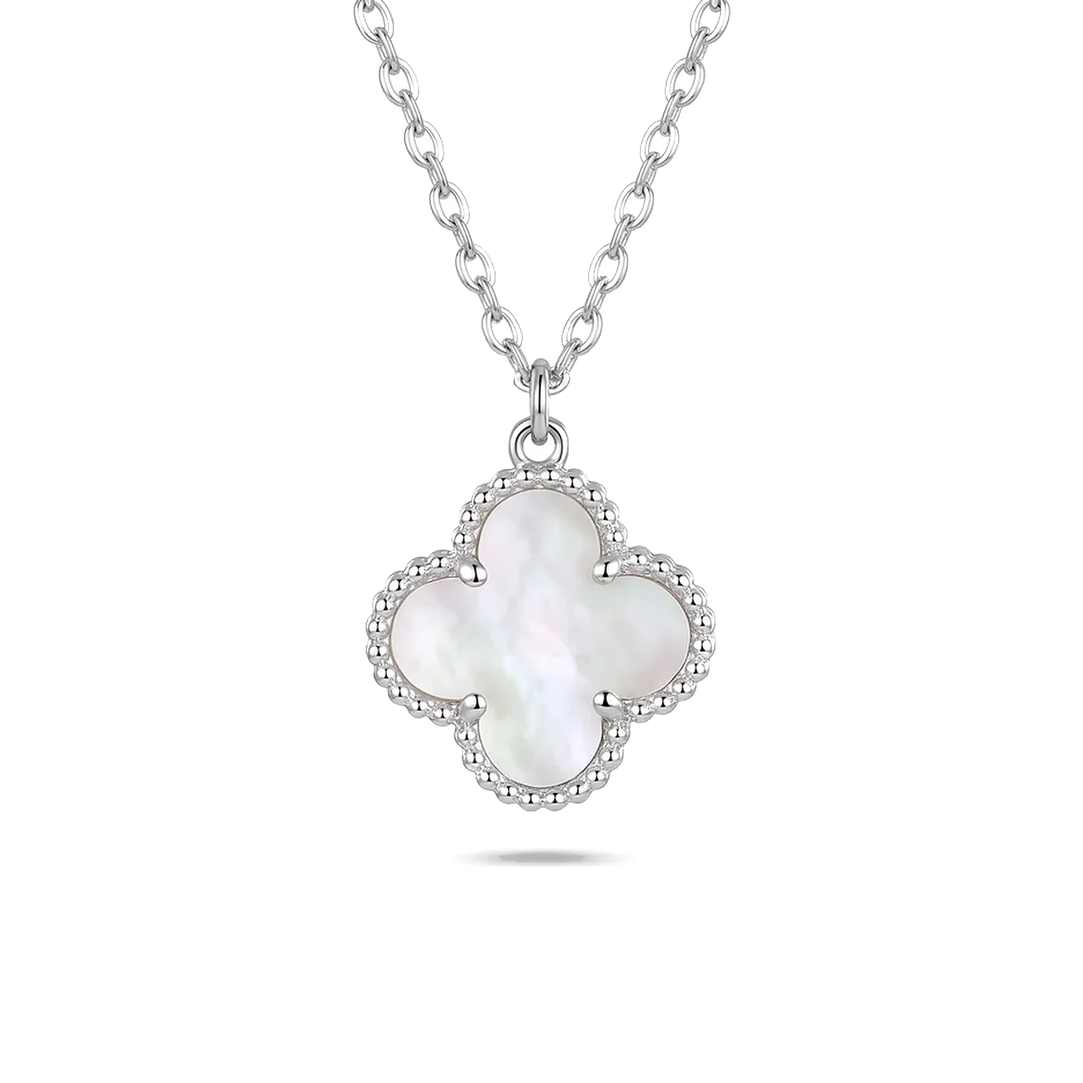
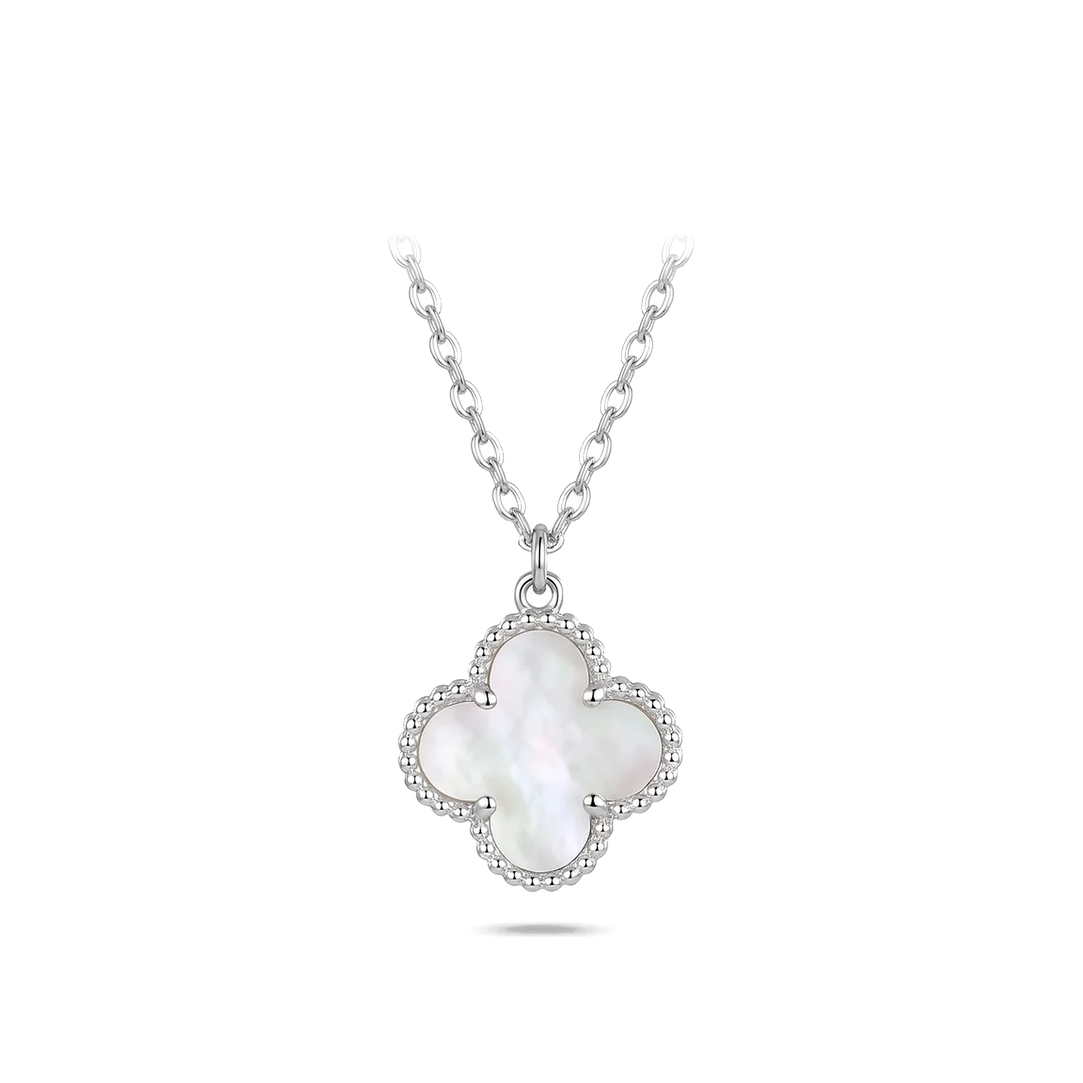
Rename to "Дамска колекция" / "Colecția pentru femei" (old anchors redirected), collection ordered by model, home row of 4 + "Виж цялата колекция", necklace photos at 65% with the chain V

Changed region(s): [[0.31, 0.0, 0.682, 0.868], [0.62, 0.217, 0.651, 0.248]]

diff --git a/components/ro/listing/RoJewelleryPageClient.tsx b/components/ro/listing/RoJewelleryPageClient.tsx
@@ -3,7 +3,7 @@ import { useEffect } from "react";
 import { useSearchParams } from "next/navigation";
 import Link from "next/link";
 import type { Product } from "@/lib/types";
-import { isCollectionSlug } from "@/lib/new-collection";
+import { collectionRank, isCollectionSlug } from "@/lib/new-collection";
 import { RoProductCard } from "@/components/ro/RoProductCard";
 
 // Romanian port of app/jewellery/JewelleryPageClient.tsx: same hero, same category tabs (?category=bracelets|necklaces,
@@ -23,18 +23,27 @@ export function RoJewelleryPageClient({ bracelets, necklaces }: Props) {
   const showBracelets = !category || category === "bracelets";
   const showNecklaces = !category || category === "necklaces";
 
-  // A link with an #anchor (the menu's #nova-kolekcia / #noua-colectie, the home banners' #bracelets / #necklaces): this grid is
+  // A link with an #anchor (the menu's #damska-kolekcia / #colectia-pentru-femei, the home banners' #bracelets / #necklaces): this grid is
   // drawn in the browser, after the browser's own jump to the anchor, so jump once it exists (the CSS scroll-margin clears the header).
+  // The section was renamed (#noua-colectie -> #colectia-pentru-femei): old links (ads, bookmarks, shared links) are rewritten to the new anchor.
   useEffect(() => {
-    const id = decodeURIComponent(window.location.hash.slice(1));
-    if (!id) return;
-    const t = window.setTimeout(() => document.getElementById(id)?.scrollIntoView({ block: "start" }), 50);
-    return () => window.clearTimeout(t);
+    let t = 0;
+    const jump = () => {
+      let id = decodeURIComponent(window.location.hash.slice(1));
+      if (!id) return;
+      if (id === "noua-colectie") { id = "colectia-pentru-femei"; window.history.replaceState(window.history.state, "", `${window.location.pathname}${window.location.search}#${id}`); }
+      window.clearTimeout(t);
+      t = window.setTimeout(() => document.getElementById(id)?.scrollIntoView({ block: "start" }), 50);
+    };
+    jump();
+    window.addEventListener("hashchange", jump);
+    return () => { window.clearTimeout(t); window.removeEventListener("hashchange", jump); };
   }, [category]);
 
   // The 2026 collection (lib/new-collection.ts) gets its own section first. The existing range follows under the info block
   // whose "750 IT" stamp line belongs to it only - the new pieces carry no stamp (owner, 07.11.2026).
-  const newPieces = [...(showBracelets ? bracelets : []), ...(showNecklaces ? necklaces : [])].filter((p) => isCollectionSlug(p.slug));
+  const newPieces = [...(showBracelets ? bracelets : []), ...(showNecklaces ? necklaces : [])].filter((p) => isCollectionSlug(p.slug))
+    .sort((a, b) => collectionRank(a.slug) - collectionRank(b.slug)); // by model, necklaces before bracelets
   const oldBracelets = bracelets.filter((p) => !isCollectionSlug(p.slug));
   const oldNecklaces = necklaces.filter((p) => !isCollectionSlug(p.slug));
   const showOldRange = (showBracelets && oldBracelets.length > 0) || (showNecklaces && oldNecklaces.length > 0);
@@ -119,11 +128,11 @@ export function RoJewelleryPageClient({ bracelets, necklaces }: Props) {
 
         {/* The 2026 collection */}
         {newPieces.length > 0 && (
-          <div id="noua-colectie" data-testid="new-collection" className="mb-20 scroll-mt-[132px]">
+          <div id="colectia-pentru-femei" data-testid="new-collection" className="mb-20 scroll-mt-[132px]">
             <div className="flex items-center justify-between mb-10">
               <div>
                 <p className="section-tag mb-2">Lorenzo Ricci</p>
-                <h2 className="font-serif text-display-sm text-charcoal">Noua colecție</h2>
+                <h2 className="font-serif text-display-sm text-charcoal">Colecția pentru femei</h2>
               </div>
               <div className="h-px flex-1 bg-border ml-8" />
             </div>

diff --git a/app/jewellery/JewelleryPageClient.tsx b/app/jewellery/JewelleryPageClient.tsx
@@ -3,7 +3,7 @@ import { useEffect } from "react";
 import { useSearchParams } from "next/navigation";
 import Link from "next/link";
 import type { Product } from "@/lib/types";
-import { isCollectionSlug } from "@/lib/new-collection";
+import { collectionRank, isCollectionSlug } from "@/lib/new-collection";
 import { ProductCard } from "@/components/product/ProductCard";
 
 interface Props {
@@ -18,18 +18,27 @@ export function JewelleryPageClient({ bracelets, necklaces }: Props) {
   const showBracelets = !category || category === "bracelets";
   const showNecklaces = !category || category === "necklaces";
 
-  // A link with an #anchor (the menu's #nova-kolekcia / #noua-colectie, the home banners' #bracelets / #necklaces): this grid is
+  // A link with an #anchor (the menu's #damska-kolekcia / #colectia-pentru-femei, the home banners' #bracelets / #necklaces): this grid is
   // drawn in the browser, after the browser's own jump to the anchor, so jump once it exists (the CSS scroll-margin clears the header).
+  // The section was renamed (#nova-kolekcia -> #damska-kolekcia): old links (ads, bookmarks, shared links) are rewritten to the new anchor.
   useEffect(() => {
-    const id = decodeURIComponent(window.location.hash.slice(1));
-    if (!id) return;
-    const t = window.setTimeout(() => document.getElementById(id)?.scrollIntoView({ block: "start" }), 50);
-    return () => window.clearTimeout(t);
+    let t = 0;
+    const jump = () => {
+      let id = decodeURIComponent(window.location.hash.slice(1));
+      if (!id) return;
+      if (id === "nova-kolekcia") { id = "damska-kolekcia"; window.history.replaceState(window.history.state, "", `${window.location.pathname}${window.location.search}#${id}`); }
+      window.clearTimeout(t);
+      t = window.setTimeout(() => document.getElementById(id)?.scrollIntoView({ block: "start" }), 50);
+    };
+    jump();
+    window.addEventListener("hashchange", jump);
+    return () => { window.clearTimeout(t); window.removeEventListener("hashchange", jump); };
   }, [category]);
 
   // The 2026 collection (lib/new-collection.ts) gets its own section first. The existing range follows under the info block
   // whose "750 IT" stamp line belongs to it only - the new pieces carry no stamp (owner, 07.11.2026).
-  const newPieces = [...(showBracelets ? bracelets : []), ...(showNecklaces ? necklaces : [])].filter((p) => isCollectionSlug(p.slug));
+  const newPieces = [...(showBracelets ? bracelets : []), ...(showNecklaces ? necklaces : [])].filter((p) => isCollectionSlug(p.slug))
+    .sort((a, b) => collectionRank(a.slug) - collectionRank(b.slug)); // by model, necklaces before bracelets
   const oldBracelets = bracelets.filter((p) => !isCollectionSlug(p.slug));
   const oldNecklaces = necklaces.filter((p) => !isCollectionSlug(p.slug));
   const showOldRange = (showBracelets && oldBracelets.length > 0) || (showNecklaces && oldNecklaces.length > 0);
@@ -124,11 +133,11 @@ export function JewelleryPageClient({ bracelets, necklaces }: Props) {
 
         {/* The 2026 collection */}
         {newPieces.length > 0 && (
-          <div id="nova-kolekcia" data-testid="new-collection" className="mb-20 scroll-mt-[132px]">
+          <div id="damska-kolekcia" data-testid="new-collection" className="mb-20 scroll-mt-[132px]">
             <div className="flex items-center justify-between mb-10">
               <div>
                 <p className="section-tag mb-2">Lorenzo Ricci</p>
-                <h2 className="font-serif text-display-sm text-charcoal">Нова колекция</h2>
+                <h2 className="font-serif text-display-sm text-charcoal">Дамска колекция</h2>
               </div>
               <div className="h-px flex-1 bg-border ml-8" />
             </div>

diff --git a/components/home/NewCollectionSection.tsx b/components/home/NewCollectionSection.tsx
@@ -2,7 +2,7 @@ import Image from "next/image";
 import Link from "next/link";
 import type { Product } from "@/lib/types";
 import { ProductCard } from "@/components/product/ProductCard";
-import { HOME_HERO_PHOTOS, NECKLACE_CARD_ZOOM } from "@/lib/new-collection";
+import { HOME_HERO_PHOTOS } from "@/lib/new-collection";
 
 // Home page (BG): the 2026 women's collection, right above "Мъжка колекция". Title, the 1+1 line, a large two-photo image
 // (necklace on the neck + bracelet on the wrist), the button to its section on /jewellery, then up to 8 pieces (in the shop and in
@@ -14,7 +14,7 @@ export function NewCollectionSection({ pieces }: { pieces: Product[] }) {
       <div className="max-w-7xl mx-auto px-5 sm:px-8">
         <div className="text-center mb-6 sm:mb-8">
           <p className="section-tag mb-4">Lorenzo Ricci</p>
-          <h2 className="section-title mb-4">Нова колекция</h2>
+          <h2 className="section-title mb-4">Дамска колекция</h2>
           <div className="gold-divider" />
           <p className="mt-6 flex flex-wrap items-center justify-center gap-x-3 gap-y-2 font-sans text-sm text-ink-soft tracking-wide">
             <span className="font-sans text-[11px] font-semibold tracking-[0.16em] uppercase bg-[#B3121F] text-white px-2.5 py-1">1+1 БЕЗПЛАТНО</span>
@@ -22,11 +22,11 @@ export function NewCollectionSection({ pieces }: { pieces: Product[] }) {
           </p>
         </div>
 
-        <Link href="/jewellery#nova-kolekcia" className="group block" aria-label="Разгледай новата колекция">
+        <Link href="/jewellery#damska-kolekcia" className="group block" aria-label="Разгледай дамската колекция">
           <div className="grid grid-cols-2 gap-2 sm:gap-4">
             {([
-              [HOME_HERO_PHOTOS.necklace, "Колие Lumen – Сребро на модел, нова колекция Lorenzo Ricci"],
-              [HOME_HERO_PHOTOS.bracelet, "Гривна Lumen – Сребро на модел, нова колекция Lorenzo Ricci"],
+              [HOME_HERO_PHOTOS.necklace, "Колие Lumen – Сребро на модел, дамска колекция Lorenzo Ricci"],
+              [HOME_HERO_PHOTOS.bracelet, "Гривна Lumen – Сребро на модел, дамска колекция Lorenzo Ricci"],
             ] as const).map(([src, alt]) => (
               <div key={src} className="relative aspect-[4/3] sm:aspect-[3/2] overflow-hidden bg-ivory-warm">
                 <Image
@@ -41,16 +41,17 @@ export function NewCollectionSection({ pieces }: { pieces: Product[] }) {
             ))}
           </div>
         </Link>
-        <div className="mt-5 sm:mt-6 mb-8 sm:mb-10 flex justify-center">
-          <Link href="/jewellery#nova-kolekcia" className="btn-primary w-full sm:w-auto text-center" data-testid="home-new-collection-cta">
-            Разгледай колекцията
-          </Link>
-        </div>
+        <div className="mt-6 sm:mt-8" />
 
         <div className="grid grid-cols-2 lg:grid-cols-4 gap-5 sm:gap-8">
           {pieces.map((p) => (
-            <ProductCard key={p.id} product={p} coverZoom={p.subcategory === "necklace" ? NECKLACE_CARD_ZOOM : undefined} />
+            <ProductCard key={p.id} product={p} />
           ))}
+        </div>
+        <div className="mt-10 sm:mt-12 flex justify-center">
+          <Link href="/jewellery#damska-kolekcia" className="btn-primary w-full sm:w-auto text-center" data-testid="home-new-collection-cta">
+            Виж цялата колекция
+          </Link>
         </div>
       </div>
     </section>

diff --git a/components/ro/home/RoNewCollectionSection.tsx b/components/ro/home/RoNewCollectionSection.tsx
@@ -2,7 +2,7 @@ import Image from "next/image";
 import Link from "next/link";
 import type { Product } from "@/lib/types";
 import { RoProductCard } from "@/components/ro/RoProductCard";
-import { HOME_HERO_PHOTOS, NECKLACE_CARD_ZOOM } from "@/lib/new-collection";
+import { HOME_HERO_PHOTOS } from "@/lib/new-collection";
 
 // Romanian counterpart of components/home/NewCollectionSection.tsx (same layout): the 2026 women's collection above "Colecția
 // clasică", its 1+1 line, the two on-model photos, the button to its section on /ro/bijuterii and up to 8 pieces (localized,
@@ -14,7 +14,7 @@ export function RoNewCollectionSection({ pieces }: { pieces: Product[] }) {
       <div className="max-w-7xl mx-auto px-5 sm:px-8">
         <div className="text-center mb-6 sm:mb-8">
           <p className="section-tag mb-4">Lorenzo Ricci</p>
-          <h2 className="section-title mb-4">Noua colecție</h2>
+          <h2 className="section-title mb-4">Colecția pentru femei</h2>
           <div className="gold-divider" />
           <p className="mt-6 flex flex-wrap items-center justify-center gap-x-3 gap-y-2 font-sans text-sm text-ink-soft tracking-wide">
             <span className="font-sans text-[11px] font-semibold tracking-[0.16em] uppercase bg-[#B3121F] text-white px-2.5 py-1">1+1 GRATUIT</span>
@@ -22,11 +22,11 @@ export function RoNewCollectionSection({ pieces }: { pieces: Product[] }) {
           </p>
         </div>
 
-        <Link href="/ro/bijuterii#noua-colectie" className="group block" aria-label="Descoperiți noua colecție">
+        <Link href="/ro/bijuterii#colectia-pentru-femei" className="group block" aria-label="Descoperiți colecția pentru femei">
           <div className="grid grid-cols-2 gap-2 sm:gap-4">
             {([
-              [HOME_HERO_PHOTOS.necklace, "Colier Lumen – Argintiu purtat, noua colecție Lorenzo Ricci"],
-              [HOME_HERO_PHOTOS.bracelet, "Brățară Lumen – Argintiu purtată, noua colecție Lorenzo Ricci"],
+              [HOME_HERO_PHOTOS.necklace, "Colier Lumen – Argintiu purtat, colecția pentru femei Lorenzo Ricci"],
+              [HOME_HERO_PHOTOS.bracelet, "Brățară Lumen – Argintiu purtată, colecția pentru femei Lorenzo Ricci"],
             ] as const).map(([src, alt]) => (
               <div key={src} className="relative aspect-[4/3] sm:aspect-[3/2] overflow-hidden bg-ivory-warm">
                 <Image
@@ -41,16 +41,17 @@ export function RoNewCollectionSection({ pieces }: { pieces: Product[] }) {
             ))}
           </div>
         </Link>
-        <div className="mt-5 sm:mt-6 mb-8 sm:mb-10 flex justify-center">
-          <Link href="/ro/bijuterii#noua-colectie" className="btn-primary w-full sm:w-auto text-center" data-testid="home-new-collection-cta">
-            Descoperiți colecția
-          </Link>
-        </div>
+        <div className="mt-6 sm:mt-8" />
 
         <div className="grid grid-cols-2 lg:grid-cols-4 gap-5 sm:gap-8">
           {pieces.map((p) => (
-            <RoProductCard key={p.id} product={p} coverZoom={p.subcategory === "necklace" ? NECKLACE_CARD_ZOOM : undefined} />
+            <RoProductCard key={p.id} product={p} />
           ))}
+        </div>
+        <div className="mt-10 sm:mt-12 flex justify-center">
+          <Link href="/ro/bijuterii#colectia-pentru-femei" className="btn-primary w-full sm:w-auto text-center" data-testid="home-new-collection-cta">
+            Vedeți întreaga colecție
+          </Link>
         </div>
       </div>
     </section>

diff --git a/lib/new-collection.ts b/lib/new-collection.ts
@@ -90,23 +90,22 @@ export const COLLECTION_PHOTOS: Readonly<Record<string, string>> = {
 /** The piece is in the shop: the collection is switched on AND the piece has its photos. */
 export const pieceLive = (slug: string): boolean => NEW_COLLECTION_LIVE && !!COLLECTION_PHOTOS[slug];
 
-/**
- * The home page's "Нова колекция" row (BG + RO): 4 necklaces + 4 bracelets, alternating necklace / bracelet and gold / silver,
- * each in the shop (photos), in stock and with a white-background photo as its no. 1 (the card shows photo no. 1, so the row
- * looks uniform). Each list is in showcase order; a piece that drops out is replaced by the next one of the same list.
- */
-const HOME_NECKLACES = ["necklace-verdis-gold", "necklace-lumen-silver", "necklace-noctis-gold", "necklace-verdis-silver", "necklace-lumen-gold", "necklace-noctis-silver"];
-const HOME_BRACELETS = ["bracelet-solaris-silver", "bracelet-spira-gold", "bracelet-linea-silver", "bracelet-verdis-gold", "bracelet-solaris-gold", "bracelet-spira-silver", "bracelet-linea-gold"];
-export const whiteCover = (slug: string): boolean => COLLECTION_PHOTOS[slug]?.[0] === "p";
-export function homeCollectionPicks<T extends { slug: string; inStock: boolean }>(shop: T[], soldOut: ReadonlySet<string>, max = 8): T[] {
-  const ok = (slug: string) => shop.find((p) => p.slug === slug && p.inStock && !soldOut.has(slug) && whiteCover(slug));
-  const take = (list: string[]) => list.map(ok).filter((p): p is T => !!p).slice(0, max / 2);
-  const [n, b] = [take(HOME_NECKLACES), take(HOME_BRACELETS)];
-  return Array.from({ length: Math.max(n.length, b.length) }, (_, i) => [n[i], b[i]]).flat().filter((p): p is T => !!p).slice(0, max);
-}
+/** Collection order everywhere (home, /jewellery, picker): by model Verdis → Noctis → Lumen → Linea → Solaris → Spira, and within a
+ *  model necklace gold, necklace silver, bracelet gold, bracelet silver (= COLLECTION_PIECES order). */
+export const collectionRank = (slug: string): number => { const i = COLLECTION_PIECES.findIndex((p) => p.slug === slug); return i < 0 ? 999 : i; };
 
-/** Home "Нова колекция" cards: necklaces zoomed on the pendant (it sits at 45-79% of the photo height, under the chain). */
-export const NECKLACE_CARD_ZOOM = { scale: 1.6, origin: "50% 63%" } as const
+/**
+ * The home page's "Дамска колекция" row (BG + RO): one row of 4 = the first 4 pieces in collection order (the full Verdis set)
+ * that are in the shop, in stock and have a white-background photo as no. 1 (the card shows photo no. 1, so the row looks uniform);
+ * a piece without one is skipped and the next one in the same order takes its place.
+ */
+export const whiteCover = (slug: string): boolean => COLLECTION_PHOTOS[slug]?.[0] === "p";
+export function homeCollectionPicks<T extends { slug: string; inStock: boolean }>(shop: T[], soldOut: ReadonlySet<string>, max = 4): T[] {
+  return shop
+    .filter((p) => isCollectionSlug(p.slug) && p.inStock && !soldOut.has(p.slug) && whiteCover(p.slug))
+    .sort((a, b) => collectionRank(a.slug) - collectionRank(b.slug))
+    .slice(0, max);
+}
 
 /**
  * URL of a new-collection photo, with its version tag (content hash from lib/collection-photo-versions.json, written by

diff --git a/lib/one-plus-one.ts b/lib/one-plus-one.ts
@@ -112,7 +112,7 @@ export const ONE_PLUS_ONE_GROUPS: OnePlusOneGroup[] = [
         badge: "1+1 БЕЗПЛАТНО",
         line: () => "Второто бижу е подарък",
         crossSell: { odd: "Добавете още едно бижу – безплатно", even: "Добавете още 2 бижута – едното е безплатно" },
-        banner: () => "Второто бижу от новата колекция е подарък",
+        banner: () => "Второто бижу от дамската колекция е подарък",
         cta: "Към бижутата",
         bar: ({ one }) => ({ desktop: `1+1 на новите бижута – 2 от ${one}`, mobile: `1+1 нови бижута – 2 от ${one}` }),
         pickTitle: "Изберете второто бижу – безплатно:",
@@ -123,7 +123,7 @@ export const ONE_PLUS_ONE_GROUPS: OnePlusOneGroup[] = [
         badge: "1+1 GRATUIT",
         line: () => "A doua bijuterie este cadou",
         crossSell: { odd: "Adăugați încă o bijuterie – gratuit", even: "Adăugați încă 2 bijuterii – una este gratuită" },
-        banner: () => "A doua bijuterie din noua colecție este cadou",
+        banner: () => "A doua bijuterie din colecția pentru femei este cadou",
         cta: "Vedeți bijuteriile",
         bar: ({ one }) => ({ desktop: `1+1 la noile bijuterii – 2 de la ${one}`, mobile: `1+1 bijuterii – de la ${one}` }), // short: the BG · RO switch sits beside it on phones
         pickTitle: "Alegeți a doua bijuterie – gratuit:",

diff --git a/components/home/Hero.tsx b/components/home/Hero.tsx
@@ -169,14 +169,14 @@ export function Hero({ campaign = null }: { campaign?: { label: string; pct: num
         active={slide === 1}
         mounted={ready}
         tag="Lorenzo Ricci · 2026"
-        title="Нова колекция"
+        title="Дамска колекция"
         badge="1+1 БЕЗПЛАТНО"
         line="Второто бижу е подарък"
         cta="Разгледай колекцията"
-        href="/jewellery#nova-kolekcia"
-        alts={{ necklace: "Колие Lumen – Сребро на модел, нова колекция Lorenzo Ricci", bracelet: "Гривна Lumen – Сребро на модел, нова колекция Lorenzo Ricci" }}
+        href="/jewellery#damska-kolekcia"
+        alts={{ necklace: "Колие Lumen – Сребро на модел, дамска колекция Lorenzo Ricci", bracelet: "Гривна Lumen – Сребро на модел, дамска колекция Lorenzo Ricci" }}
       />
-      {ready && <HeroDots slide={slide} onSelect={setSlide} labels={["Часовници", "Нова колекция"]} />}
+      {ready && <HeroDots slide={slide} onSelect={setSlide} labels={["Часовници", "Дамска колекция"]} />}
       {/* Scroll indicator */}
       <div className="absolute bottom-8 left-1/2 -translate-x-1/2 z-10 animate-bounce">
         <div className="w-px h-12 bg-gradient-to-b from-white/40 to-transparent mx-auto" />

diff --git a/components/ro/home/RoHero.tsx b/components/ro/home/RoHero.tsx
@@ -169,14 +169,14 @@ export function RoHero({ campaign = null }: { campaign?: { label: string; pct: n
         active={slide === 1}
         mounted={ready}
         tag="Lorenzo Ricci · 2026"
-        title="Noua colecție"
+        title="Colecția pentru femei"
         badge="1+1 GRATUIT"
         line="A doua bijuterie este cadou"
         cta="Descoperiți colecția"
-        href="/ro/bijuterii#noua-colectie"
-        alts={{ necklace: "Colier Lumen – Argintiu purtat, noua colecție Lorenzo Ricci", bracelet: "Brățară Lumen – Argintiu purtată, noua colecție Lorenzo Ricci" }}
+        href="/ro/bijuterii#colectia-pentru-femei"
+        alts={{ necklace: "Colier Lumen – Argintiu purtat, colecția pentru femei Lorenzo Ricci", bracelet: "Brățară Lumen – Argintiu purtată, colecția pentru femei Lorenzo Ricci" }}
       />
-      {ready && <HeroDots slide={slide} onSelect={setSlide} labels={["Ceasuri", "Noua colecție"]} />}
+      {ready && <HeroDots slide={slide} onSelect={setSlide} labels={["Ceasuri", "Colecția pentru femei"]} />}
       {/* Scroll indicator */}
       <div className="absolute bottom-8 left-1/2 -translate-x-1/2 z-10 animate-bounce">
         <div className="w-px h-12 bg-gradient-to-b from-white/40 to-transparent mx-auto" />

diff --git a/components/layout/Header.tsx b/components/layout/Header.tsx
@@ -40,7 +40,7 @@ export function Header() {
             <div className="hidden lg:flex items-center gap-10">
               <NavLink href="/watches">Часовници</NavLink>
 
-              <NavLink href="/jewellery#nova-kolekcia">Бижута</NavLink>
+              <NavLink href="/jewellery#damska-kolekcia">Бижута</NavLink>
 
               <NavLink href="/leather-goods">Кожени изделия</NavLink>
             </div>
@@ -116,7 +116,7 @@ export function Header() {
                 </Link>
               ))}
 
-              <Link href="/jewellery#nova-kolekcia" onClick={closeMobile}
+              <Link href="/jewellery#damska-kolekcia" onClick={closeMobile}
                 className="py-1 font-serif text-4xl text-white/80 hover:text-white transition-colors duration-300">
                 Бижута
               </Link>

diff --git a/app/ro/page.tsx b/app/ro/page.tsx
@@ -71,7 +71,7 @@ export default async function RoHomePage() {
   // Campaign hero (same phase config and 5% rule as the Bulgarian banner/hero): the discount is the biggest live one among the products sold in Romania.
   const salePct = maxDiscountRounded(catalog, soldOut);
   const saleLabel = campaignLabelRo();
-  // "Noua colecție": up to 8 pieces sold in Romania, in stock, showcase order (lib/new-collection.ts).
+  // "Colecția pentru femei": one row of 4 sold in Romania, in stock, showcase order (lib/new-collection.ts).
   const newPieces = homeCollectionPicks(catalog, soldOut);
 
   return (

diff --git a/app/page.tsx b/app/page.tsx
@@ -44,7 +44,7 @@ export default async function HomePage() {
   const salePct = maxDiscountRounded(applyOverrides(products, overrides), new Set(soldOut));
   const saleLabel = campaignLabel();
 
-  // "Нова колекция" (the 2026 collection): up to 8 pieces in the shop and in stock, showcase order (lib/new-collection.ts).
+  // "Дамска колекция" (the 2026 collection): one row of 4 in the shop and in stock, showcase order (lib/new-collection.ts).
   const newPieces = homeCollectionPicks(applyOverrides(products, overrides), new Set(soldOut));
 
   return (

diff --git a/components/ro/chrome/RoHeader.tsx b/components/ro/chrome/RoHeader.tsx
@@ -16,7 +16,7 @@ import { LanguageSwitch } from "@/components/ui/LanguageSwitch";
 // hamburger menu serves everything below it.
 const LEFT_NAV = [
   { href: "/ro/ceasuri", label: "Ceasuri" },
-  { href: "/ro/bijuterii#noua-colectie", label: "Bijuterii" }, // lands on "Noua colecție"
+  { href: "/ro/bijuterii#colectia-pentru-femei", label: "Bijuterii" }, // lands on "Colecția pentru femei"
   { href: "/ro/piele-de-crocodil", label: "Articole din piele de crocodil" },
 ] as const;
 
